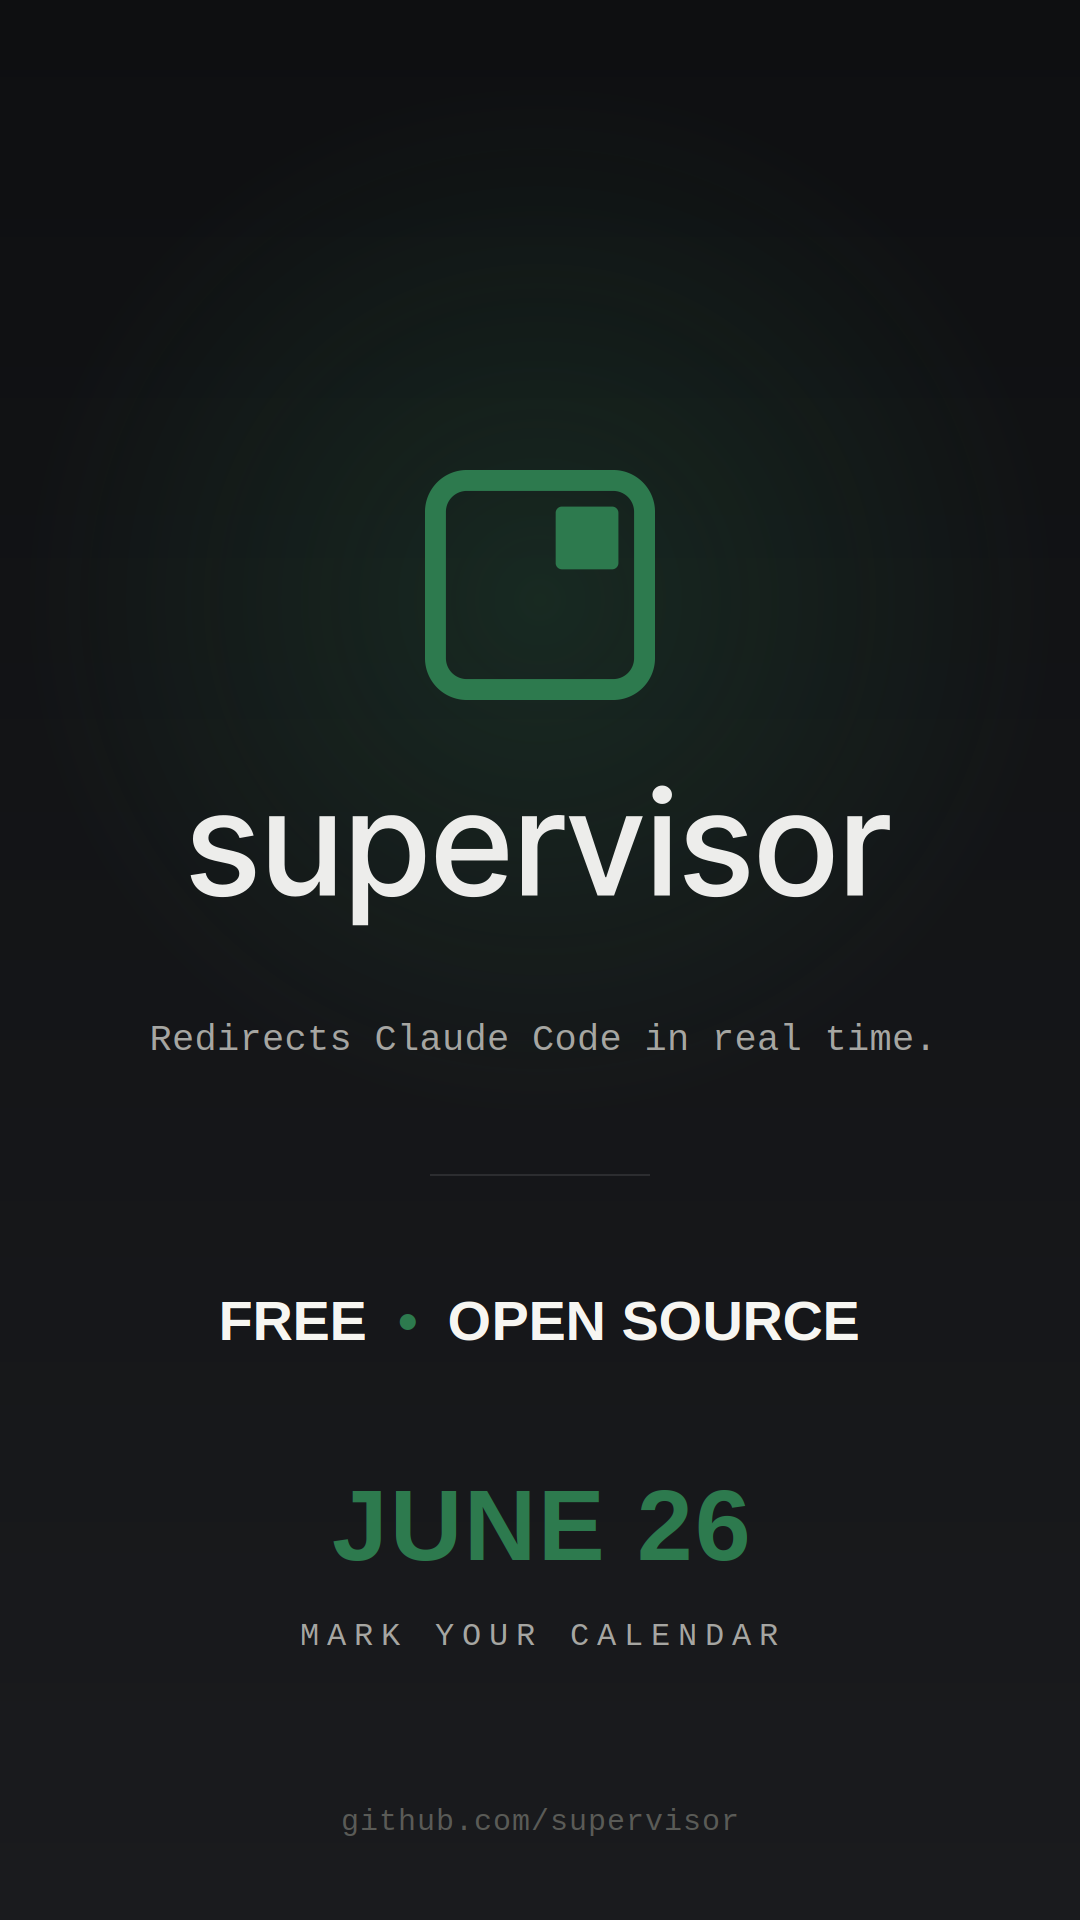
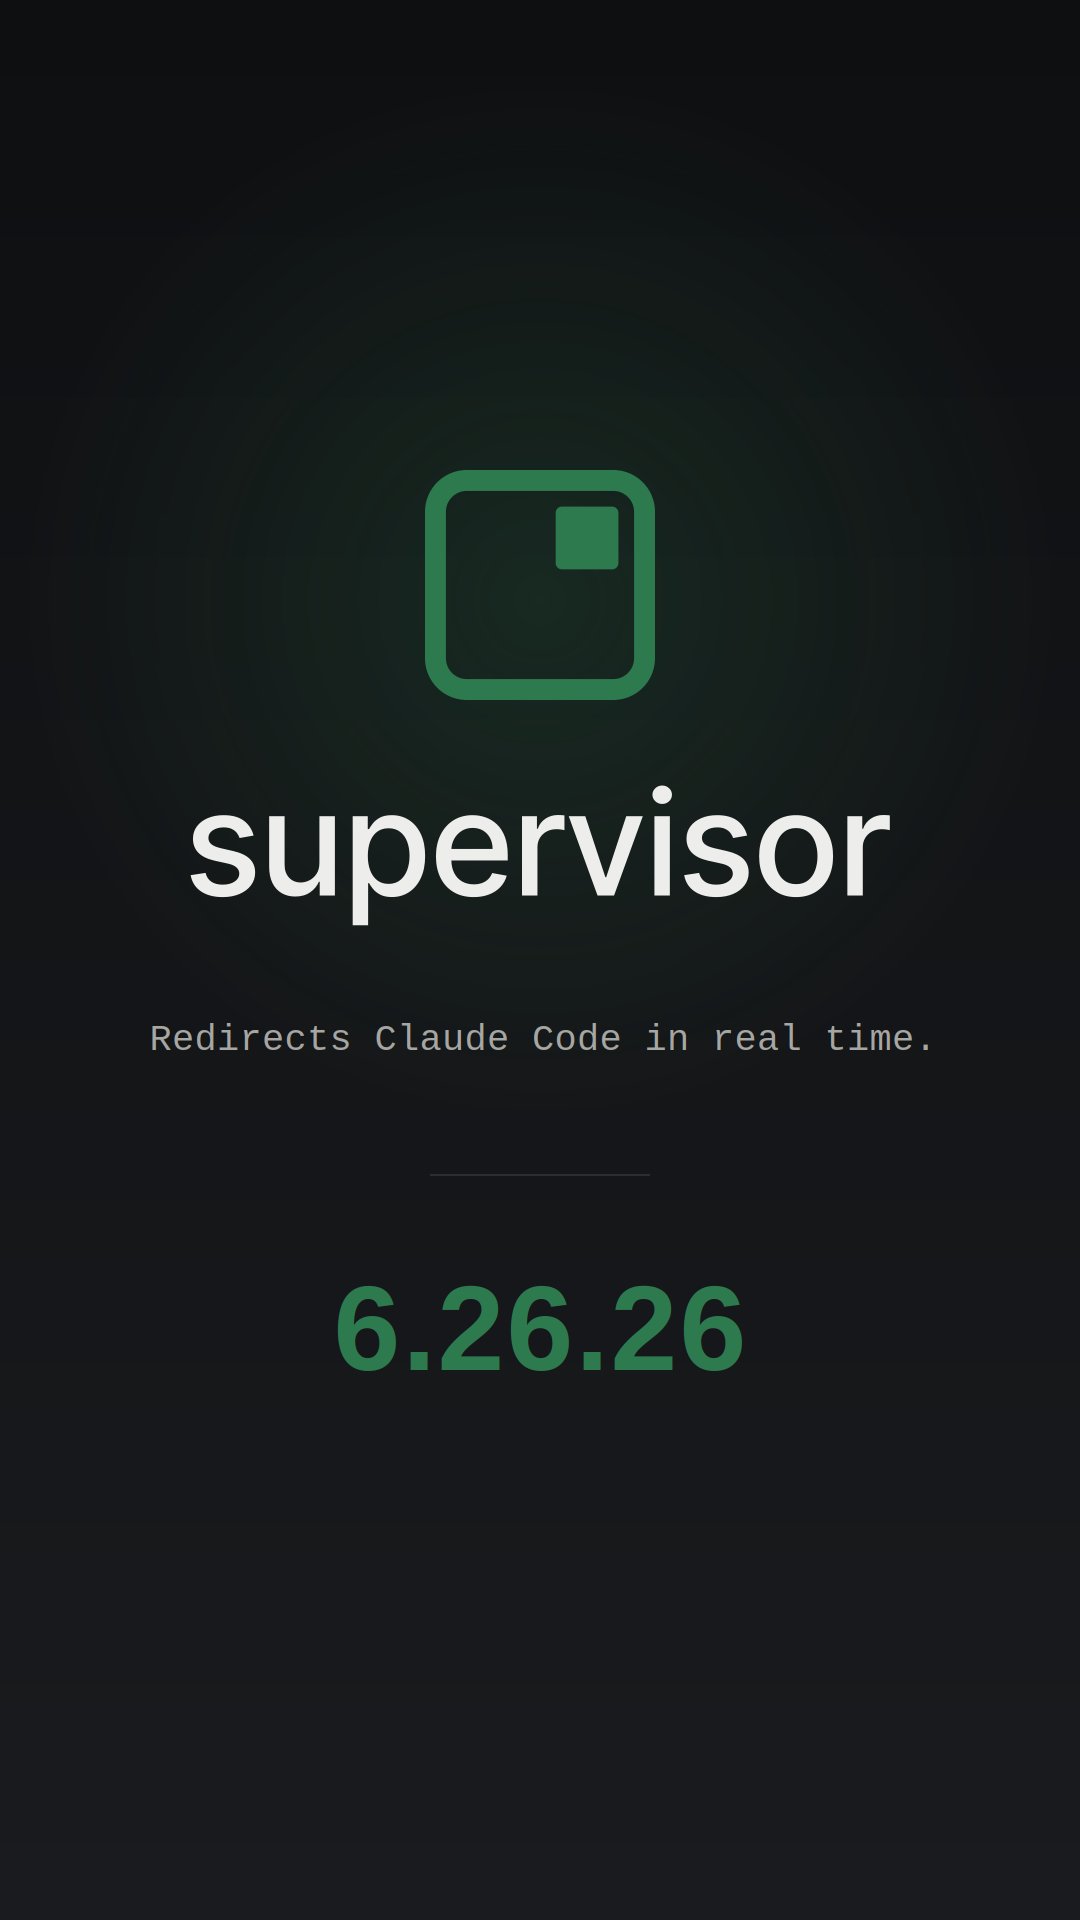
Simplify TikTok end card to lockup + 6.26.26 date
Drop the FREE / OPEN SOURCE line, MARK YOUR CALENDAR subline, and the
github.com footer. Keep the symbol, wordmark, and tagline; replace the
launch headline with a single green 6.26.26 date, moved up.

Claude-Session: https://claude.ai/code/session_01MRzF9idHNxM7VJFXzADFho

diff --git a/branding/README.md b/branding/README.md
@@ -12,7 +12,7 @@ build pipeline reads from here — don't move files without updating
 | `supervisor-appicon-1024.png` | 1024×1024 RGBA master with the macOS squircle baked in. `Scripts/make-icns.sh` rescales it through the standard 10-size iconset into `AppIcon.icns`. |
 | `supervisor-wordmark.svg`     | Three lockup variants in one file: `#lockup-horizontal`, `#lockup-stacked`, `#wordmark-only`. All glyphs are outlined paths from Inter Medium with -2% tracking — zero font dependency at render time. Used in docs, GitHub social card, and the (future v0.1.7+) expanded panel. |
 | `AppIcon.icns`                | Generated artifact (committed). Reflects the current state of `supervisor-appicon-1024.png`; `make-icns.sh` rebuilds it whenever the master is newer. The intermediate `AppIcon.iconset/` directory is `.gitignore`d. |
-| `supervisor-tiktok-endcard.{svg,png}` | 1080×1920 (9:16) vertical end card for TikTok / Reels / Shorts. Stacked lockup on the dark Ink→Ink-deep ground, mono tagline, `FREE • OPEN SOURCE`, and a `JUNE 26` launch headline. Built as a hold frame for a voiceover — no buttons/tap targets (there are none in-feed). Symbol + wordmark are the canonical outlined paths; only the marketing text uses a system sans/mono fallback. Regenerate the PNG from the SVG. |
+| `supervisor-tiktok-endcard.{svg,png}` | 1080×1920 (9:16) vertical end card for TikTok / Reels / Shorts. Stacked lockup on the dark Ink→Ink-deep ground, mono tagline, and a `6.26.26` launch-date headline in `Signal` green. Built as a minimal hold frame for a voiceover — no buttons/tap targets (there are none in-feed). Symbol + wordmark are the canonical outlined paths; only the tagline/date use a system sans/mono fallback. Regenerate the PNG from the SVG. |
 
 ## Palette
 
